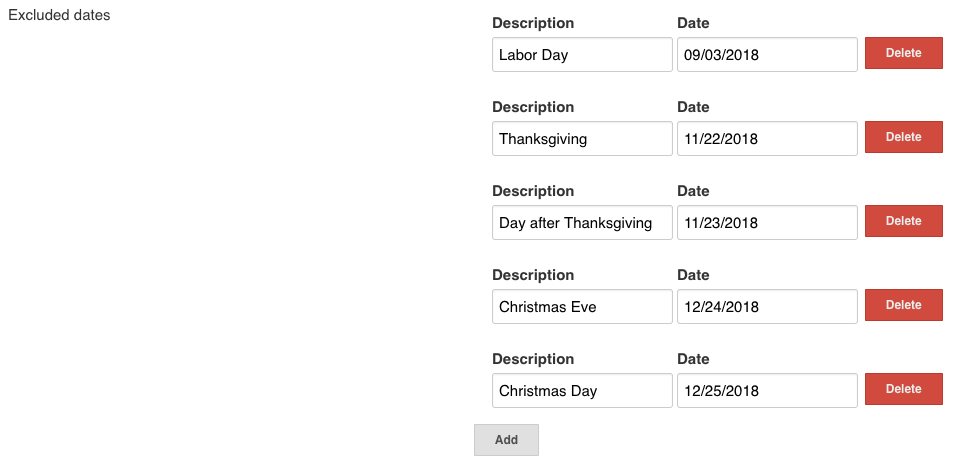
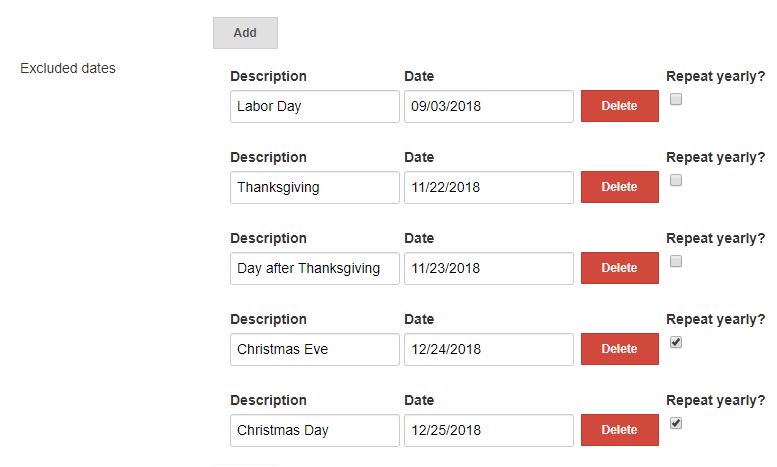
Updating README.md

diff --git a/README.md b/README.md
@@ -84,7 +84,8 @@ for the day it's running, the job will be aborted. Please note that if no allowa
 time ranges are configured for a day, `enforceBuildStep` will abort the job.
 
 ### Excluded dates
-This section contains explicit days (such as holidays) to abort the `enforceBuildStep`. This takes precedence over a`Allowable build times`, so jobs
-will always be queued on an excluded date. Here's an example of some holidays configured in the Working Days calendar:
+This section contains explicit days (such as holidays) to abort the `enforceBuildStep`. This takes precedence over `Allowable build times`, so jobs
+will never be queued on an excluded date. The `Repeat Yearly?` checkbox will make the excluded date apply every year. It still needs to have a year set in order to be to be a valid date.
+Here's an example of some holidays configured in the Working Days calendar:
 
 ![Excluded days](images/excluded-days.png "Excluded days")
